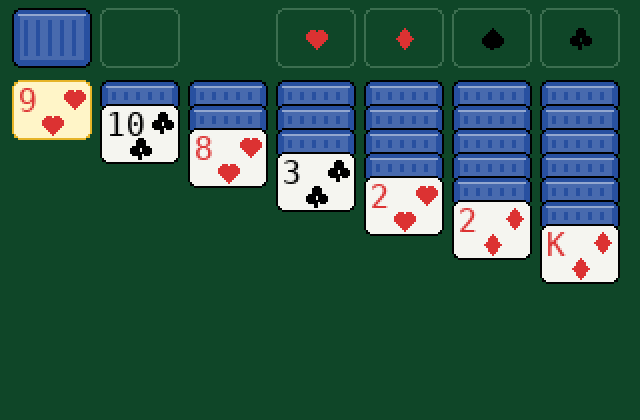
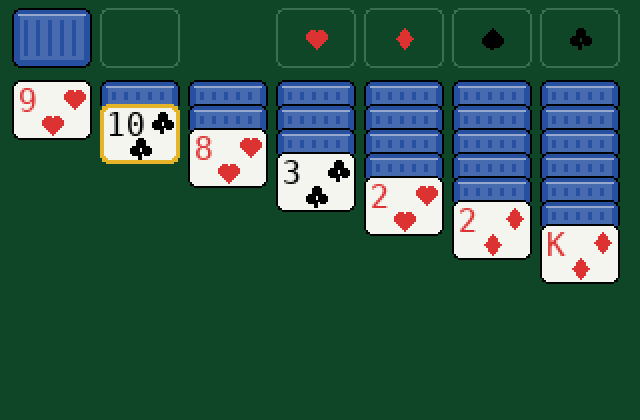
Solitaire: show the cursor as a gold outline instead of a yellow card
Claude-Session: https://claude.ai/code/session_01ABga3j6ZJ15ibdVoXrUo56

Changed region(s): [[0.0, 0.1857, 0.2812, 0.4024]]

diff --git a/dist/GAMEHUB.py b/dist/GAMEHUB.py
@@ -3058,20 +3058,21 @@ def soli_suit(x, y, s):
         fill_rect(x - 1, y + 2, 2, 4)
 def soli_card(x, y, cd, h=soli_CHT, sel=False):
     if cd is None:
-        rbox(x, y, soli_CW, soli_CHT, 4, (60, 110, 80), 1, soli_FELT)
+        rbox(x, y, soli_CW, soli_CHT, 4, GOLD if sel else (60, 110, 80), 2 if sel else 1, soli_FELT)
         return
     r, s, up = cd
     edge = GOLD if sel else BLACK
+    e = 2 if sel else 1
     rrect(x, y, soli_CW, h, 4, edge)
     if not up:
-        rrect(x + 1, y + 1, soli_CW - 2, h - 2, 3, soli_BACK)
+        rrect(x + e, y + e, soli_CW - 2 * e, h - 2 * e, 3, soli_BACK)
         rect(x + 3, y + 3, soli_CW - 6, 1, lt(soli_BACK, 0.5))
         if h >= 12:
             rect(x + 4, y + 4, soli_CW - 8, h - 8, lt(soli_BACK, 0.15))
             for i in range(x + 6, x + soli_CW - 6, 6):
                 rect(i, y + 6, 2, h - 12, soli_BACK)
         return
-    rrect(x + 1, y + 1, soli_CW - 2, h - 2, 3, (255, 245, 200) if sel else soli_CARD)
+    rrect(x + e, y + e, soli_CW - 2 * e, h - 2 * e, 3, soli_CARD)
     t = soli_RANKS[r]
     text(x + 3, y + 15, t, RED if s < 2 else BLACK)
     soli_suit(x + 31 - (5 if len(t) > 1 else 0) + (5 if len(t) > 1 else 0), y + 9, s)

diff --git a/dist/GHSOLI.py b/dist/GHSOLI.py
@@ -215,20 +215,21 @@ def soli_suit(x, y, s):
         fill_rect(x - 1, y + 2, 2, 4)
 def soli_card(x, y, cd, h=soli_CHT, sel=False):
     if cd is None:
-        rbox(x, y, soli_CW, soli_CHT, 4, (60, 110, 80), 1, soli_FELT)
+        rbox(x, y, soli_CW, soli_CHT, 4, GOLD if sel else (60, 110, 80), 2 if sel else 1, soli_FELT)
         return
     r, s, up = cd
     edge = GOLD if sel else BLACK
+    e = 2 if sel else 1
     rrect(x, y, soli_CW, h, 4, edge)
     if not up:
-        rrect(x + 1, y + 1, soli_CW - 2, h - 2, 3, soli_BACK)
+        rrect(x + e, y + e, soli_CW - 2 * e, h - 2 * e, 3, soli_BACK)
         rect(x + 3, y + 3, soli_CW - 6, 1, lt(soli_BACK, 0.5))
         if h >= 12:
             rect(x + 4, y + 4, soli_CW - 8, h - 8, lt(soli_BACK, 0.15))
             for i in range(x + 6, x + soli_CW - 6, 6):
                 rect(i, y + 6, 2, h - 12, soli_BACK)
         return
-    rrect(x + 1, y + 1, soli_CW - 2, h - 2, 3, (255, 245, 200) if sel else soli_CARD)
+    rrect(x + e, y + e, soli_CW - 2 * e, h - 2 * e, 3, soli_CARD)
     t = soli_RANKS[r]
     text(x + 3, y + 15, t, RED if s < 2 else BLACK)
     soli_suit(x + 31 - (5 if len(t) > 1 else 0) + (5 if len(t) > 1 else 0), y + 9, s)

diff --git a/calc/GHSOLI.py b/calc/GHSOLI.py
@@ -44,20 +44,21 @@ def suit(x, y, s):
 
 def card(x, y, cd, h=CHT, sel=False):
     if cd is None:
-        rbox(x, y, CW, CHT, 4, (60, 110, 80), 1, FELT)
+        rbox(x, y, CW, CHT, 4, GOLD if sel else (60, 110, 80), 2 if sel else 1, FELT)
         return
     r, s, up = cd
     edge = GOLD if sel else BLACK
+    e = 2 if sel else 1
     rrect(x, y, CW, h, 4, edge)
     if not up:
-        rrect(x + 1, y + 1, CW - 2, h - 2, 3, BACK)
+        rrect(x + e, y + e, CW - 2 * e, h - 2 * e, 3, BACK)
         rect(x + 3, y + 3, CW - 6, 1, lt(BACK, 0.5))
         if h >= 12:
             rect(x + 4, y + 4, CW - 8, h - 8, lt(BACK, 0.15))
             for i in range(x + 6, x + CW - 6, 6):
                 rect(i, y + 6, 2, h - 12, BACK)
         return
-    rrect(x + 1, y + 1, CW - 2, h - 2, 3, (255, 245, 200) if sel else CARD)
+    rrect(x + e, y + e, CW - 2 * e, h - 2 * e, 3, CARD)
     t = RANKS[r]
     text(x + 3, y + 15, t, RED if s < 2 else BLACK)
     suit(x + 31 - (5 if len(t) > 1 else 0) + (5 if len(t) > 1 else 0), y + 9, s)
